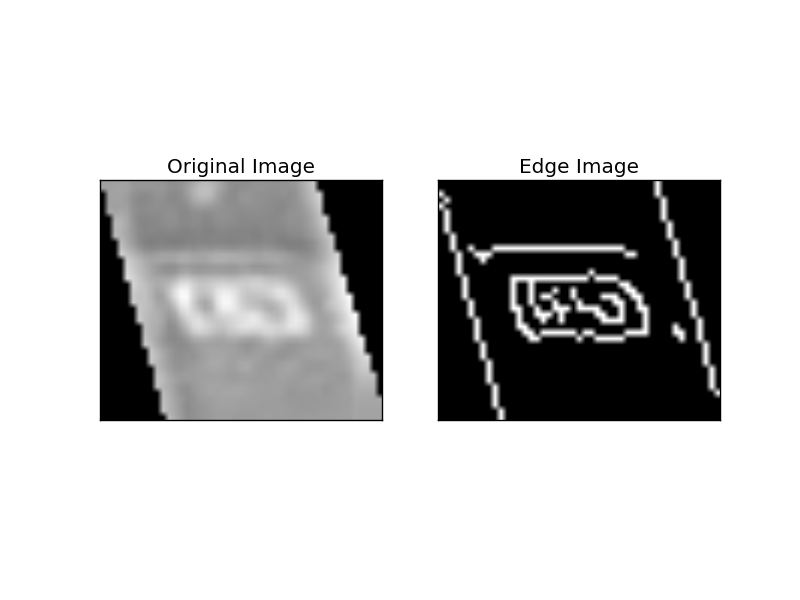
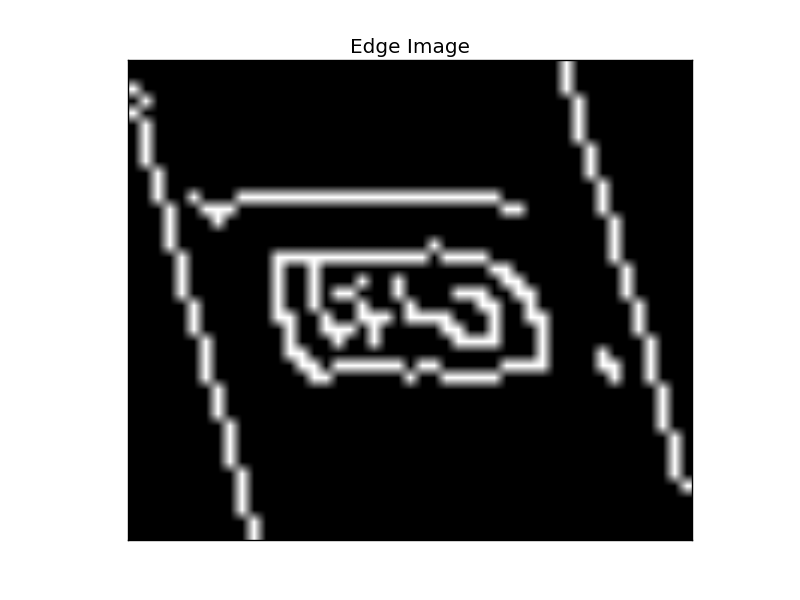
Updating

diff --git a/KevinEllis/PLOTv1.py b/KevinEllis/PLOTv1.py
@@ -107,12 +107,12 @@ def cannyedgedetection(spotforcanny,parkingspacelocation): #Detects edges
     lower = int(max(0, (1.0 - sigma) * v))
     upper = int(min(255, (1.0 + sigma) * v))
     edges = cv2.Canny(spotforcanny,lower,upper)
-    plt.subplot(121),plt.imshow(spotforcanny,cmap = 'gray')
-    plt.title('Original Image'), plt.xticks([]), plt.yticks([])
-    plt.subplot(122),plt.imshow(edges,cmap = 'gray')
+    #plt.subplot(121),plt.imshow(spotforcanny,cmap = 'gray')
+    #plt.title('Original Image'), plt.xticks([]), plt.yticks([])
+    plt.plot(122),plt.imshow(edges,cmap = 'gray')
     plt.title('Edge Image'), plt.xticks([]), plt.yticks([])
     dirname = 'edges'
-    plt.savefig(os.path.join(dirname, parkingspacelocation +  'Edge' + '.png')) #Saves the image to Edgess folder
+    plt.savefig(os.path.join(dirname, parkingspacelocation +  'Edge' + '.png'),transparent=True) #Saves the image to Edges folder
     plt.close()
 def sharpen(spot): #Sharpens the image for better edge detection
     #Create the identity filter, but with the 1 shifted to the right!
@@ -127,7 +127,9 @@ def sharpen(spot): #Sharpens the image for better edge detection
     # very bright or very dark pixel surrounded by the opposite type.
     custom = cv2.filter2D(spot, -1, kernel)
     return custom
-def detectviacanny():
+def detectviacanny(): #### WORK IN PROGRESS
+    cv2.imread('Row_1 Col0Edge.png', -1)
+
     return
 if __name__ == "__main__":
     image = cv2.imread('image2.jpg', -1)
